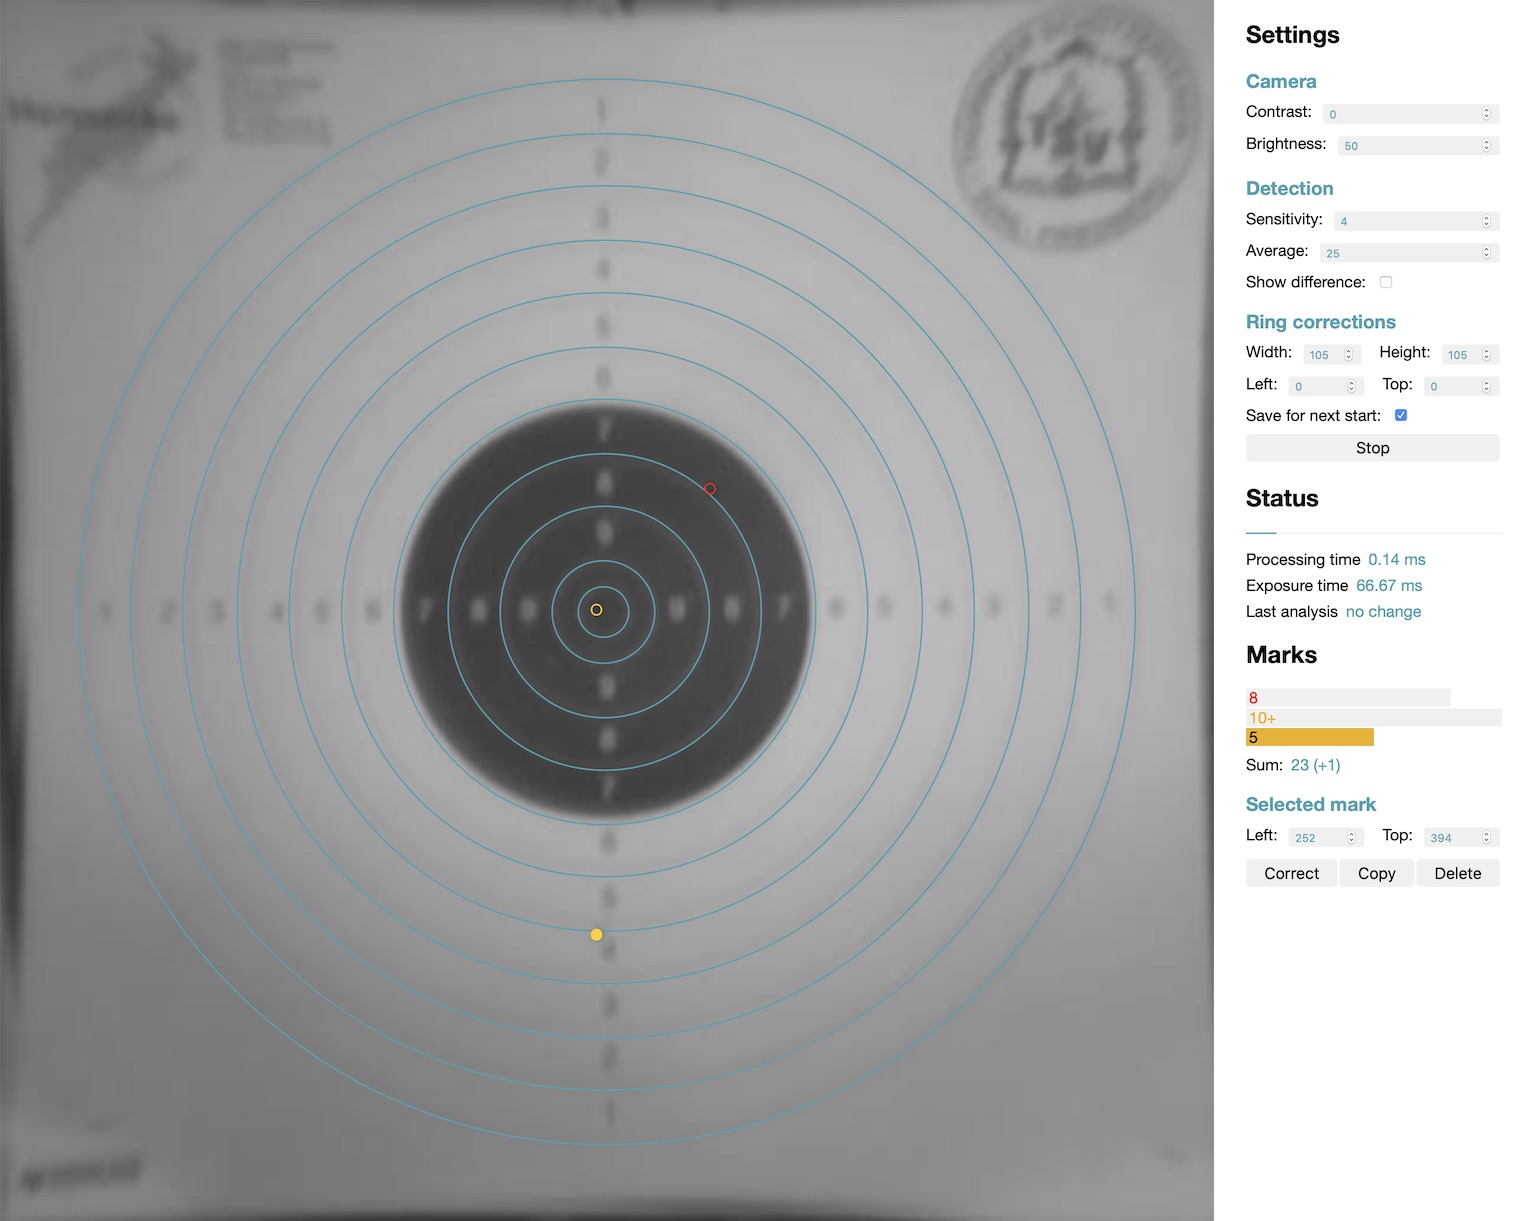
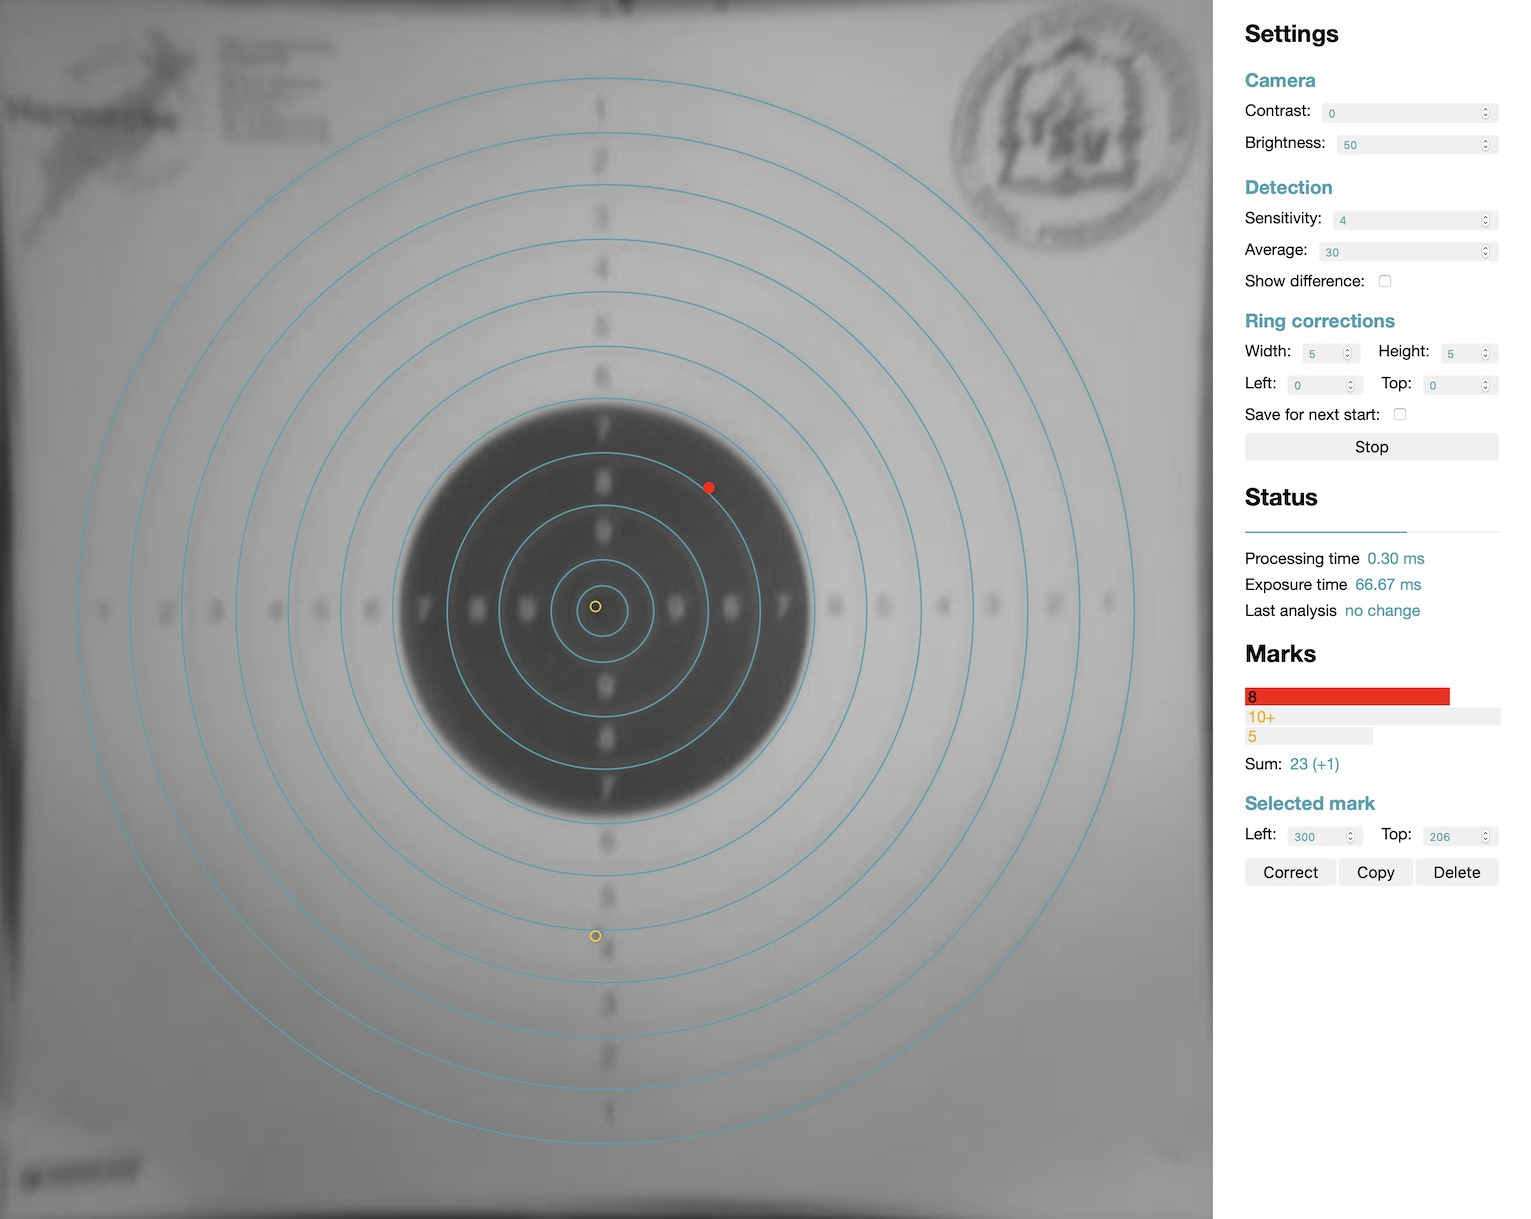
ring size corrections are now relative to 100 percent

Changed region(s): [[0.7982, 0.4053, 0.9517, 0.717], [0.7982, 0.0, 0.9517, 0.3741]]

diff --git a/html/index.html b/html/index.html
@@ -56,7 +56,7 @@
                     <h3>Ring corrections</h3>
                     <div class="paramlist">
                         <div>
-                            Width: <input type="number" name="ringswidth" min="50" max="150" onchange="enterParam(this)"><span>Height: </span><input type="number" name="ringsheight" min="50" max="150" onchange="enterParam(this)">
+                            Width: <input type="number" name="ringswidth" min="-50" max="50" onchange="enterParam(this)"><span>Height: </span><input type="number" name="ringsheight" min="-50" max="50" onchange="enterParam(this)">
                         </div>
                         <div>
                             Left: <input type="number" name="ringsleft" step="1" onchange="enterParam(this)"><span>Top: </span><input type="number" name="ringstop" step="1" onchange="enterParam(this)">

diff --git a/server.py b/server.py
@@ -145,8 +145,8 @@ class StreamingHandler(server.SimpleHTTPRequestHandler):
                 'showdiff': spotter.showDiff, 
                 'target': target.name, 
                 'markdia': target.holeDia, 
-                'ringswidth': spotter.mirrorScale[0]*100, 
-                'ringsheight': spotter.mirrorScale[1]*100, 
+                'ringswidth': spotter.mirrorScale[0]*100-100, 
+                'ringsheight': spotter.mirrorScale[1]*100-100, 
                 'ringsleft': spotter.mirrorTranslate[0], 
                 'ringstop': spotter.mirrorTranslate[1], 
                 'saverings': spotter.keepMirror, 
@@ -291,10 +291,10 @@ class StreamingHandler(server.SimpleHTTPRequestHandler):
                 target.holeDia = float(value)
             elif param == 'ringswidth':
                 # scale mirror in x
-                spotter.mirrorScale = (float(value)/100, spotter.mirrorScale[1])
+                spotter.mirrorScale = ((float(value)+100)/100, spotter.mirrorScale[1])
             elif param == 'ringsheight':
                 # scale mirror in y
-                spotter.mirrorScale = (spotter.mirrorScale[0], float(value)/100)
+                spotter.mirrorScale = (spotter.mirrorScale[0], (float(value)+100)/100)
             elif param == 'ringsleft':
                 # move mirror in x
                 spotter.mirrorTranslate = (int(value), spotter.mirrorTranslate[1])
